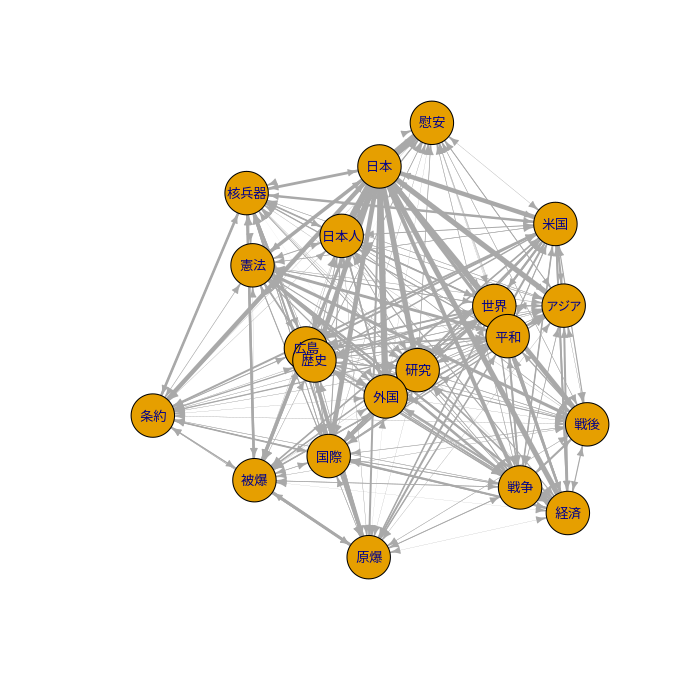
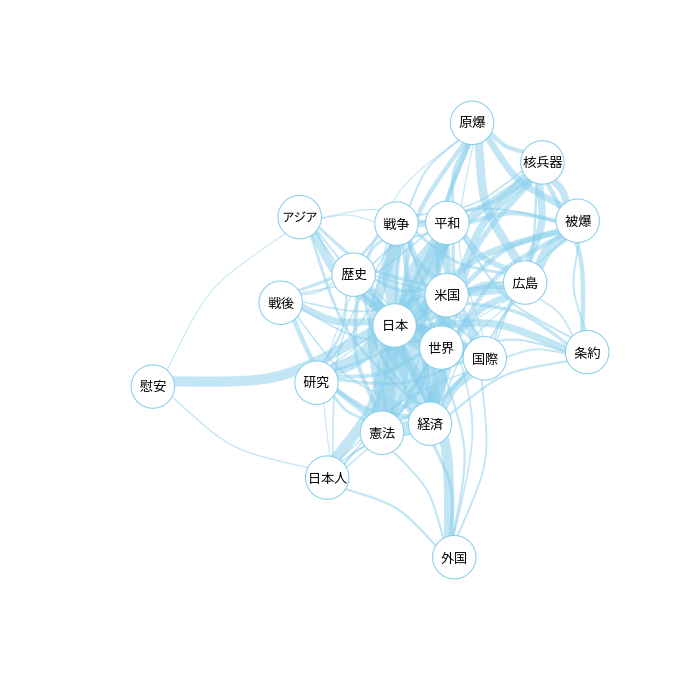
Make network plot nicer

Changed region(s): [[0.18, 0.12, 0.87, 0.84], [0.42, 0.72, 0.45, 0.75]]

diff --git a/documents/advanced.md b/documents/advanced.md
@@ -42,13 +42,23 @@ key_jp <- rownames(textstat_keyness(mx, which(rowSums(dfm_select(mx, '日本')) 
 
 mx_top <- mx[,head(key_jp, 20)] # 日本と最も強く関連する20語を選択
 mx_col <- fcm(mx_top, tri = FALSE) # 共起行列を作成
-mx_nor <- dfm_weight(mx_col, 'relFreq') # 共起頻度を標準化
+diag(mx_col) <- 0 # 自己共起を無視
+mx_col[mx_col < 1000] <- 0 # 低頻度の共起を無視
 ```
 
+    ## Note: method with signature 'CsparseMatrix#Matrix#missing#replValue' chosen for function '[<-',
+    ##  target signature 'dgCMatrix#lgeMatrix#missing#numeric'.
+    ##  "Matrix#ldenseMatrix#missing#replValue" would also be valid
+
 ``` r
-gr <- graph_from_adjacency_matrix(mx_nor, weighted = TRUE, diag = FALSE) # グラフオブジェクトを作成
-igraph.options(plot.layout=layout_with_graphopt, vertex.label.family = 'sanserif', vertex.label.cex = 0.8)
-plot(gr, edge.width = E(gr)$weight * 20,  edge.arrow.size = 0.5, vertex.size = 20)
+gr <- graph_from_adjacency_matrix(mx_col, weighted = TRUE, diag = FALSE, mode = 'undirected') # グラフオブジェクトを作成
+igraph.options(plot.layout=layout_with_fr, vertex.label.family = 'sanserif', vertex.label.cex = 0.8)
+plot(gr, edge.width = E(gr)$weight / 1000,  
+    edge.color = adjustcolor('sky blue', 0.5),
+    vertex.color = adjustcolor('white', 1.0),
+    vertex.frame.color = adjustcolor('sky blue', 1.0),
+    vertex.label.color = 'black',
+    edge.curved = 0.3, edge.arrow.size = 0.3, vertex.size = 20)
 ```
 
 ![](advanced_files/figure-markdown_github/plot1-1.png)
